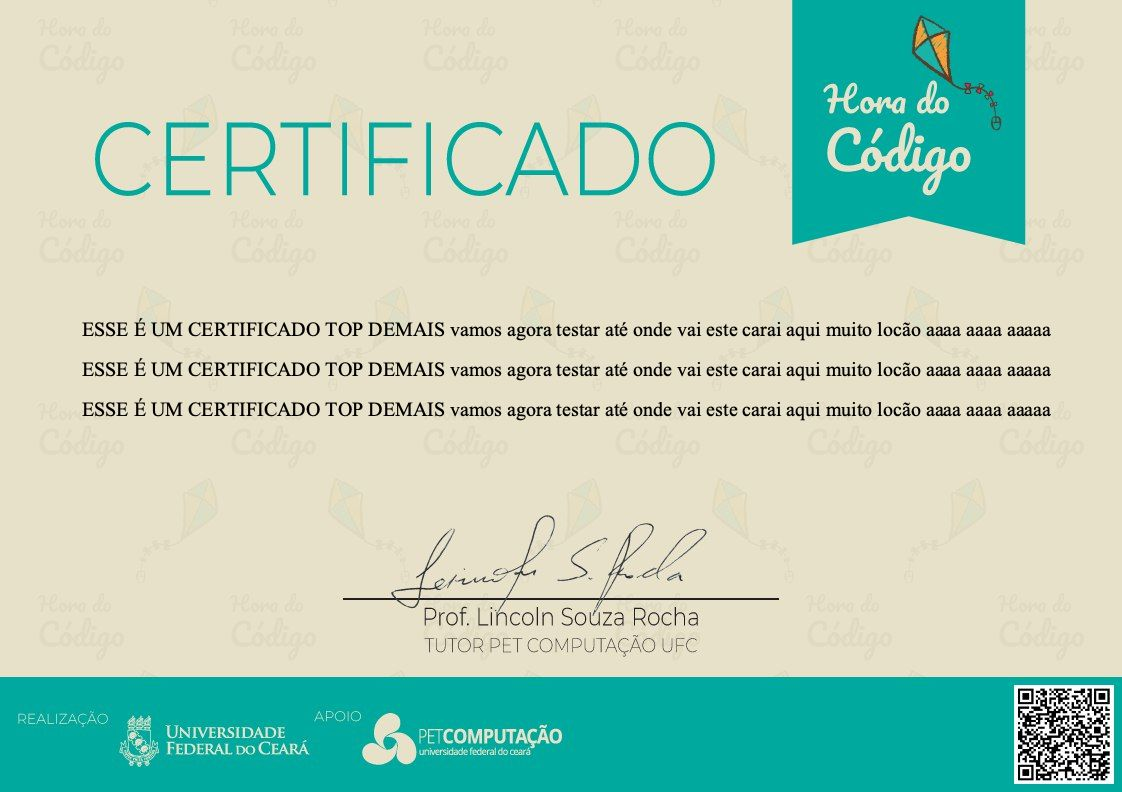
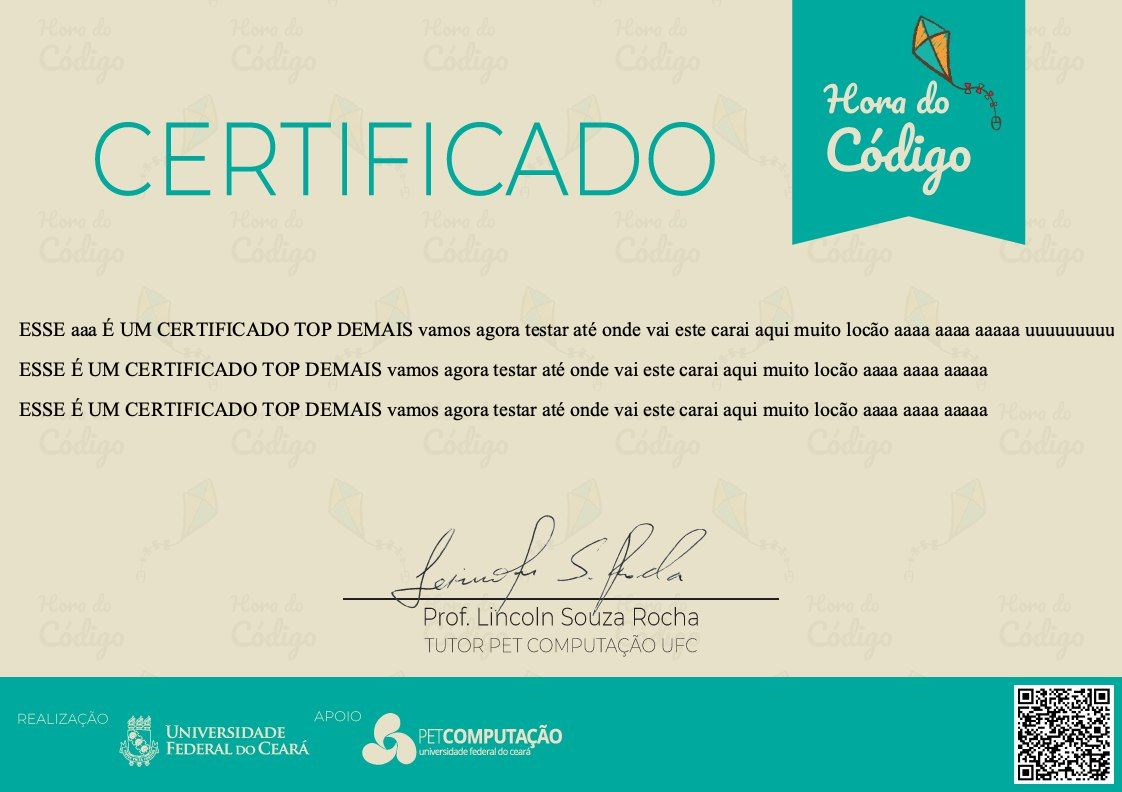
[+] Geração do certificado quase pronta -> Falta só ajeitar o texto por cima da img que tá dando um bug loco

Changed region(s): [[0.0, 0.4545, 0.9358, 0.5455], [0.0, 0.3939, 0.9982, 0.4242]]

diff --git a/backend/src/controllers/CertificadoController.js b/backend/src/controllers/CertificadoController.js
@@ -1,26 +1,105 @@
 const mongoose = require('mongoose');
+const path = require('path');
 const Participacao = mongoose.model('Participacao');
 const Evento = mongoose.model('Evento');
 const Texto = mongoose.model('Texto');
+const sharp = require('sharp');
+
+
+
+certificados = [];
+
+async function gerar_certificado(texto, img_base, nome_img){
+    // var textoSVG = ` <svg>
+    //                 <rect x="0" fill="none" y="0" width="800" height="200" rx="50" ry="50"/> `
+
+    // var x = 10,
+    //     y = 40,
+    //     i = 0,
+    //     // interacoes = texto.length / 100;
+    //     style = `style="font-family: Times New Roman; font-size: 20; stroke: none; fill: black; text-align: center"`;
+
+    // //TODO: Verificação pra quando for a ultima rodada
+    // for(i = 0; i < texto.length; i += 100){
+    //     textoSVG += `<text x=`+ x + ` y=`+ y + ` `+ style + `>`
+    //                     + texto.substr(i, i+=99);
+    //                 +`</text>`;
+    //     x += 
+    // }
+
+    // textoSVG += `</svg>`;
+    // const textoBuffer = Buffer.from( textoSVG);
+
+
+    const roundedCorners = Buffer.from(
+        `
+            <svg>
+            <rect x="0" fill="none" y="0" width="800" height="200" rx="50" ry="50"/>
+                <text x="10" y="40"  style="font-family: Times New Roman; font-size: 20; stroke: none; fill: black; text-align: center">
+                    ESSE aaa É UM CERTIFICADO TOP DEMAIS vamos agora testar até onde vai este carai aqui muito locão aaaa aaaa aaaaa uuuuuuuuu 
+                </text>
+    
+                <text x="10" y="80"  style="font-family: Times New Roman; font-size: 20; stroke: none; fill: black; text-align: center">
+                    ESSE É UM CERTIFICADO TOP DEMAIS vamos agora testar até onde vai este carai aqui muito locão aaaa aaaa aaaaa
+                </text>
+    
+                <text x="10" y="120"  style="font-family: Times New Roman; font-size: 20; stroke: none; fill: black; text-align: center">
+                    ESSE É UM CERTIFICADO TOP DEMAIS vamos agora testar até onde vai este carai aqui muito locão aaaa aaaa aaaaa
+                 </text>
+            </svg>
+        `
+      );
+    
+    const img_final = sharp(img_base)
+                    .composite([{
+                        input: roundedCorners,
+                        blend: 'atop'
+                    }])
+                    .toFile(nome_img);
+}
+
+async function get_infos(participacao){
+    const texto = await Texto.findOne({ "numero": participacao.texto });
+    const evento = await Evento.findById(participacao.id_evento);
+    
+    var texto_final = texto.texto.replace("@nome", participacao.nome_pessoa);
+    texto_final = texto_final.replace("@evento", evento.nome);
+    texto_final = texto_final.replace("@horas", participacao.horas);
+    texto_final = texto_final.replace("@cpf", participacao.cpf);
+
+    console.log(evento.background);
+    console.log(path.resolve("temp/uploads/"+evento.background));
+    console.log(path.resolve(evento.background));
+    console.log(path.resolve("../temp/uploads/"+evento.background));
+
+    var certificado = {
+                'nome': participacao.nome_pessoa,
+                'cpf': participacao.cpf,
+                'horas': participacao.horas,
+                'texto': texto_final,
+                'evento': evento.nome,
+                'nome_img_certificado': participacao.cpf + '_' + evento.nome + ".png"
+    }; 
+
+    await gerar_certificado(texto_final, path.resolve("temp/uploads/"+evento.background), path.resolve("temp/certificados/"+certificado.nome_img_certificado));
+    return certificado;
+}
 
 module.exports = {
     async index(req, res) {
         // checar as querys que pode ser feitas pelos filtros
+        var certificados = [];
 
         // 1. pega as participacoes dele pelo cpf
         const participacoes = await Participacao.find({"cpf": req.params.cpf});
-        const texto = await
-        console.log(participacoes)
-        // 2. pega os textos dele em Textos
+       
 
-
-        // 3. pega os eventos que ele participou em Eventos
-
-        // montar dicionario de resposta = 
-
-
-        const { page = 1 } = req.query;
+        for(participacao of participacoes){
+            certificados.push(await get_infos(participacao))
+        }
         
-        return res.json(participacoes);
+        console.log(certificados);
+        
+        return res.json(certificados);
     },
 };

diff --git a/front/pages/certificados.html b/front/pages/certificados.html
@@ -52,7 +52,6 @@
     </div>
   </nav>
 
-  <!-- <div > -->
     <div class="card"  id="filtro">
       <div class="card-header" id="headingOne">
         <h2 class="mb-0 text-center">
@@ -125,12 +124,9 @@
         </div>
       </div>
     </div>
-  <!-- </div> -->
-
-    <!-- Project One -->
     <div id="conteudo" class="container center-block">
 
-        <div class="row">
+        <!-- <div class="row">
           <div class="col-md-4">
             <a href="#">
               <img class="img-fluid rounded mb- mb-md-0" src="http://placehold.it/700x300" alt="">
@@ -138,11 +134,23 @@
           </div>
           <div class="col-md-4">
             <h3>Project Three</h3>
-            <!-- <p>Lorem ipsum dolor sit amet, consectetur adipisicing elit. Omnis, temporibus, dolores, at, praesentium ut unde repudiandae voluptatum sit ab debitis suscipit fugiat natus velit excepturi amet commodi deleniti alias possimus!</p> -->
             <a class="btn btn-primary" href="#">View Project</a>
           </div>
         </div>
-        <!-- /.row -->
+
+        <hr> -->
+
+        <!-- <div class="row">
+          <div class="col-md-4">
+            <a href="#">
+              <img class="img-fluid rounded mb- mb-md-0" src="http://placehold.it/700x300" alt="">
+            </a>
+          </div>
+          <div class="col-md-4">
+            <h3>Project Three</h3>
+            <a class="btn btn-primary" href="#">View Project</a>
+          </div>
+        </div>
 
         <hr>
 
@@ -154,11 +162,9 @@
           </div>
           <div class="col-md-4">
             <h3>Project Three</h3>
-            <!-- <p>Lorem ipsum dolor sit amet, consectetur adipisicing elit. Omnis, temporibus, dolores, at, praesentium ut unde repudiandae voluptatum sit ab debitis suscipit fugiat natus velit excepturi amet commodi deleniti alias possimus!</p> -->
-            <a class="btn btn-primary" href="#">View Project</a>
+           <a class="btn btn-primary" href="#">View Project</a>
           </div>
         </div>
-        <!-- /.row -->
 
         <hr>
 
@@ -170,56 +176,12 @@
           </div>
           <div class="col-md-4">
             <h3>Project Three</h3>
-            <!-- <p>Lorem ipsum dolor sit amet, consectetur adipisicing elit. Omnis, temporibus, dolores, at, praesentium ut unde repudiandae voluptatum sit ab debitis suscipit fugiat natus velit excepturi amet commodi deleniti alias possimus!</p> -->
             <a class="btn btn-primary" href="#">View Project</a>
           </div>
         </div>
-        <!-- /.row -->
 
-        <hr>
+        <hr> -->
 
-        <!-- Project Two -->
-        <div class="row">
-          <div class="col-md-4">
-            <a href="#">
-              <img class="img-fluid rounded mb- mb-md-0" src="http://placehold.it/700x300" alt="">
-            </a>
-          </div>
-          <div class="col-md-4">
-            <h3>Project Three</h3>
-            <!-- <p>Lorem ipsum dolor sit amet, consectetur adipisicing elit. Omnis, temporibus, dolores, at, praesentium ut unde repudiandae voluptatum sit ab debitis suscipit fugiat natus velit excepturi amet commodi deleniti alias possimus!</p> -->
-            <a class="btn btn-primary" href="#">View Project</a>
-          </div>
-        </div>
-        <!-- /.row -->
-
-        <hr>
-
-
-        <!-- Pagination -->
-        <!-- <ul class="pagination justify-content-center">
-          <li class="page-item">
-            <a class="page-link" href="#" aria-label="Previous">
-              <span aria-hidden="true">&laquo;</span>
-              <span class="sr-only">Previous</span>
-            </a>
-          </li>
-          <li class="page-item">
-            <a class="page-link" href="#">1</a>
-          </li>
-          <li class="page-item">
-            <a class="page-link" href="#">2</a>
-          </li>
-          <li class="page-item">
-            <a class="page-link" href="#">3</a>
-          </li>
-          <li class="page-item">
-            <a class="page-link" href="#" aria-label="Next">
-              <span aria-hidden="true">&raquo;</span>
-              <span class="sr-only">Next</span>
-            </a>
-          </li>
-        </ul> -->
     </div>
     <footer class="fixed-bottom bg-dark">      </footer>
 </body>

diff --git a/front/js/certificados.js b/front/js/certificados.js
@@ -1,1 +1,60 @@
 $('.collapse').collapse()
+
+var certificados = [
+
+
+];
+// { "evento": x, "local_img": x}
+// 
+
+
+function gerar_componente_device(certificado, id_linha) {
+    console.log(certificado);
+    $('#' + id_linha).append(
+        // "<div class='row'>" +
+          "<div class='col-md-4'>" +
+              "<img class='img-fluid rounded mb- mb-md-0' src='../../backend/temp/certificados/"+ certificado['nome_img_certificado'] +"' alt=''>" + // BOTAR IMAGEM
+          "</div>" +
+          "<div class='col-md-4'>" +
+            "<h3>" +  certificado['evento'] +"</h3>" + // BOTAR NOME DO EVENTO
+            "<a class='btn btn-primary' href='../../backend/temp/certificados/" + certificado['nome_img_certificado'] +"' download= ='../../backend/temp/certificados/" + certificado['nome_img_certificado'] +"'>Download certificado</a>" + 
+          "</div>" +
+        // "</div>" +
+        "<hr>" 
+    );    
+}
+
+
+function atualizar_tela() {
+    console.log(certificados)
+    var id;
+    certificados.forEach((certificado, index) => {
+        $("#conteudo").append("<div id = row_" + id + " class='row'> </div>");
+        gerar_componente_device(certificado, "row_" + id);
+    });
+};
+
+
+function get_certificados(){
+    $.ajax({
+        headers: { "Accept": "application/json" },
+        type: "GET",
+        crossDomain: true,
+        url: "http://localhost:3004/api/certificados/"+ sessionStorage.getItem('cpf'),
+        contentType: 'application/json',
+        dataType: 'json',
+        beforeSend: function(xhr) {
+            xhr.withCredentials = true;
+            // xhr.setRequestHeader('Authorization','Bearer ' + sessionStorage.getItem('token'));
+        },
+        success: function(msg) {
+            certificados = msg;
+            atualizar_tela();
+        }
+    });
+};
+
+
+$(document).ready(function() {
+    get_certificados();
+});

diff --git a/backend/src/certificados.js b/backend/src/certificados.js
@@ -6,7 +6,7 @@ const roundedCorners = Buffer.from(
         <svg>
         <rect x="0" fill="none" y="0" width="800" height="200" rx="50" ry="50"/>
             <text x="10" y="40"  style="font-family: Times New Roman; font-size: 20; stroke: none; fill: black; text-align: center">
-                ESSE É UM CERTIFICADO TOP DEMAIS vamos agora testar até onde vai este carai aqui muito locão aaaa aaaa aaaaa
+                ESSE aaa É UM CERTIFICADO TOP DEMAIS vamos agora testar até onde vai este carai aqui muito locão aaaa aaaa aaaaa uuuuuuuuu 
             </text>
 
             <text x="10" y="80"  style="font-family: Times New Roman; font-size: 20; stroke: none; fill: black; text-align: center">
@@ -20,19 +20,11 @@ const roundedCorners = Buffer.from(
     `
   );
 
-// const blends = ['clear', 'source', 'over', 'in', 'out', 'atop', 'dest', 'dest-over', 'dest-in', 'dest-out', 'dest-atop', 'xor', 'add', 'saturate', 'multiply', 'screen', 'overlay', 'darken', 'lighten', 'colour-dodge', 'color-dodge', 'colour-burn','color-burn', 'hard-light', 'soft-light', 'difference', 'exclusion'];
-
-// for (let blend of blends) {
     const roundedCornerResizer =
-      sharp('hdc.jpg')
+      sharp('../temp/uploads/hdc.jpg')
         // .resize('200', 200)
         .composite([{
           input: roundedCorners,
           blend: 'atop'
         }])
         .toFile('artop-cu.jpg')
-// }
-   
-//   readableStream
-//     .pipe(roundedCornerResizer)
-//     .pipe(writableStream);

diff --git a/front/pages/editarEvento.html b/front/pages/editarEvento.html
@@ -128,12 +128,12 @@
                         </div>  
                         
                         <div class="row">
-                          <label id ="labelImg" for="avatar">Choose a profile picture:</label>
+                          <label id ="labelImg" for="avatar">Escolha o avatar do evento:</label>
                           <input type="file" id="inputFoto" name="file" required autofocus>
                         </div>
 
                         <div class="row">
-                            <label id ="labelImg" for="avatar">Choose a profile picture:</label>
+                            <label id ="labelImg" for="avatar">Escolha a imagem para background do certificado:</label>
                             <input type="file" id="inputBackground" name="file" required autofocus>
                         </div>
                         

diff --git a/front/index.html b/front/index.html
@@ -57,9 +57,8 @@
             <h5>Emita o seu</h5>
             <h5>Certificado!</h5>
             <p>
-              Lorem ipsu Lorem ipsu Lorem ipsu Lorem ipsu Lorem ipsu Lorem ipsu Lorem ipsu Lorem ipsu Lorem ipsu
-              Lorem ipsu Lorem ipsu Lorem ipsu Lorem ipsu Lorem ipsu Lorem ipsu Lorem ipsu Lorem ipsu Lorem ipsu
-              Lorem ipsu Lorem ipsu Lorem ipsu Lorem ipsu
+              Você participou de algum evento legal cadastrado nessa plataforma?
+              Se sim, basta inserir o seu CPF e voi-lá! O seu certificado está em suas mãos! :)
             </p>
             <div class="row input-group input-group-lg">
               <input type="text" id="cpf" class="form-control form-control-lg" placeholder="Digite o seu CPF" required autofocus pattern="^([1-9]|0[1-9]|[1,2][0-9]|3[0,1])/([1-9]|1[0,1,2])/\d{4}$">

diff --git a/front/pages/cadastroEvento.html b/front/pages/cadastroEvento.html
@@ -124,12 +124,12 @@
                         </div>
                         
                         <div class="row">
-                          <label id ="labelImg" for="avatar">Choose a profile picture:</label>
+                          <label id ="labelImg" for="avatar">Escolha o avatar do evento:</label>
                           <input type="file" id="inputFoto" name="file" required autofocus>
                         </div>
 
                         <div class="row">
-                            <label id ="labelImg" for="avatar">Choose a profile picture:</label>
+                            <label id ="labelImg" for="avatar">Escolha a imagem para background do certificado:</label>
                             <input type="file" id="inputBackground" name="file" required autofocus>
                         </div>
 
